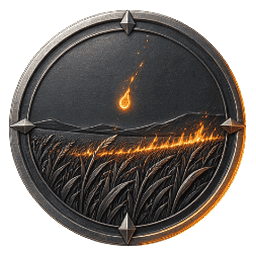
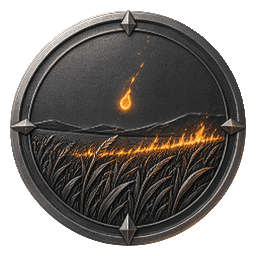
art(badges): 星火燎原/米芯/斩杀线收回外溢光晕；门禁改按"填满盘"判
母图把 rim-light 画在币的物理圆周之外，而 make-badge 的裁剪圆按"最外不透明
像素"拟合，拟合到的正是光晕 —— 光晕整圈以不透明留下、金属币沿提前收口，看着
就是"币被裁小 + 光往外溢"。日日新那道青弧同属这一族。Mode A 收紧三张母图，
外环暖/冷色占比 24.6%→1.4%、19.5%→0.1%、9.5%→0.0%。

门禁按站主裁定放宽（效果优先，1px 看不出）：不再要求 alpha bbox 恰为
[9,9,245,245]，改为居中 ≤1.5px + 币面填满 r=118 标准盘 ≥95% + 二值 alpha。
真实理由是工具与门禁互斥：component fit 外沿上限锁在 118.52，要凑出 x0=9 需
约 11850px 母图，常规母图只能 10..245；keep fit 又不居中，过不过全看母图撞对齐。

查实一条：ImageGen 不产透明底（三张都要了透明背景，回回白底），这类母图
--mode alpha 无效，必须 --mode white。范围只这三张，公地/小馋猫/数理门徒/
西风烈站主判定不动。validate:art 抓到联动：斩杀线同时是称号成员图，
title-registry 的 ?v= 要跟着升。user-badges-artwork 3/3、validate:fast 全绿。

diff --git a/dashboard/src/ui/achievements/badge-catalog.js b/dashboard/src/ui/achievements/badge-catalog.js
@@ -149,12 +149,12 @@ export const BADGE_CATALOG = [
   { id: "nemotron_spiral", scope: "local", icon: Cpu, format: "tokens", art: "/achievements/nemotron-spiral.png?v=2" },
   { id: "phi_disciple", scope: "local", icon: Sigma, format: "tokens", art: "/achievements/phi-disciple.png?v=2" },
   { id: "spark_alpaca", scope: "local", icon: Bot, format: "tokens", art: "/achievements/spark-alpaca.png?v=2" },
-  { id: "iflytek_spark", scope: "local", icon: Sparkles, format: "tokens", art: "/achievements/iflytek-spark.png?v=1" },
+  { id: "iflytek_spark", scope: "local", icon: Sparkles, format: "tokens", art: "/achievements/iflytek-spark.png?v=2" },
   { id: "sensenova_daily", scope: "local", icon: Sunrise, format: "tokens", art: "/achievements/sensenova-daily.png?v=3" },
-  { id: "xiaomi_mimo", scope: "local", icon: Radio, format: "tokens", art: "/achievements/xiaomi-mimo.png?v=1" },
+  { id: "xiaomi_mimo", scope: "local", icon: Radio, format: "tokens", art: "/achievements/xiaomi-mimo.png?v=2" },
   // Wave-6 badges (2026-10-25)
   { id: "dragon_heir", scope: "local", icon: Crown, format: "count", art: "/achievements/dragon-heir.png?v=3" },
-  { id: "kill_line", scope: "local", icon: Sword, format: "percent", art: "/achievements/kill-line.png?v=4" },
+  { id: "kill_line", scope: "local", icon: Sword, format: "percent", art: "/achievements/kill-line.png?v=5" },
 ];
 
 export const BADGE_BY_ID = new Map(BADGE_CATALOG.map((b) => [b.id, b]));

diff --git a/test/user-badges-artwork.test.js b/test/user-badges-artwork.test.js
@@ -106,7 +106,27 @@ test("minted coins fill the standard 237px disc with binary alpha", () => {
       }
     }
     assert.equal(semi, 0, `${filename} must have binary alpha`);
-    assert.deepEqual([x0, y0, x1, y1], [9, 9, 245, 245], `${filename} coin must span pixels 9..245 on both axes`);
+    // What the UI actually needs: the coin sits centred and fills the standard
+    // disc, so the tier ring hugs it evenly. An exact bbox was the wrong
+    // assertion — it forced every mint onto a lucky master alignment while a
+    // 1-2px radius difference is not visible at coin size.
+    const cx = (x0 + x1) / 2;
+    const cy = (y0 + y1) / 2;
+    assert.ok(Math.abs(cx - 127.5) <= 1.5, `${filename} coin centre x is ${cx}, expected within 1.5px of 127.5`);
+    assert.ok(Math.abs(cy - 127.5) <= 1.5, `${filename} coin centre y is ${cy}, expected within 1.5px of 127.5`);
+    let discArea = 0;
+    let filled = 0;
+    for (let y = 0; y < png.height; y++) {
+      for (let x = 0; x < png.width; x++) {
+        const dx = x + 0.5 - 128;
+        const dy = y + 0.5 - 128;
+        if (dx * dx + dy * dy > 118 * 118) continue;
+        discArea++;
+        if (png.data[(y * png.width + x) * 4 + 3] > 0) filled++;
+      }
+    }
+    const fill = filled / discArea;
+    assert.ok(fill >= 0.95, `${filename} coin fills only ${(fill * 100).toFixed(1)}% of the standard disc (need 95%)`);
   }
 });
 

diff --git a/dashboard/src/ui/achievements/title-registry.js b/dashboard/src/ui/achievements/title-registry.js
@@ -406,7 +406,7 @@ const TITLES_UNSORTED = [
     art: "/achievements/titles/title-chinese-can-fly.png?v=1",
     requiredBadges: [
       { id: "dragon_heir", name: "龙的传人", tier: 3, art: "/achievements/dragon-heir.png?v=3" },
-      { id: "kill_line", name: "斩杀线", tier: 1, art: "/achievements/kill-line.png?v=4" },
+      { id: "kill_line", name: "斩杀线", tier: 1, art: "/achievements/kill-line.png?v=5" },
       { id: "flash_immortal", name: "Flash 仙人", tier: 2, art: "/achievements/flash-immortal.png?v=9" },
     ],
     check: (badgeMap) =>
